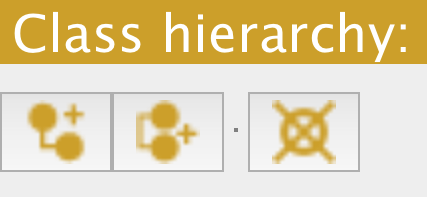
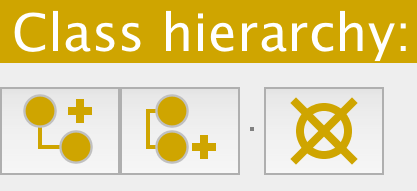
Updated the class hierarchy docs
- Added a description of the “Create SubClasses…” menu item, along with
a Figure showing the associated Wizard.
- Tidied up some description.
- Updated the screenshot of the toolbar.

diff --git a/_views/class-hierarchy.md b/_views/class-hierarchy.md
@@ -6,9 +6,9 @@ menuPath: Class views > Class hierarchy
 ---
 The class hierarchy view displays the asserted and inferred class hierarchies.  The asserted class hierarchy is visible by default.
 
-The asserted class hierarchy view is one of the primary navigation devices in {{site.protege}}.  It is presented as a tree where tree nodes correspond to classes.  A child node represents a class that is a subclass of the class represented by the parent node.
+The asserted class hierarchy view is one of the primary navigation devices in {{site.protege}}.  It is presented as a tree where nodes in the tree represent classes.  A child-parent relationship in the tree represents a sub/super class relationship in the class hierarchy.  
 
-A class will be shown under another class if it is asserted to be a SubClassOf that other class, or if it is asserted to be EquivalentTo a class expression that is an intersection containing that other class as an operand.  For example, if the ontology contains ```A SubClassOf B```, then ```A``` will appear under ```B``` in the tree.  Similarly, if the ontology contains ```E Equivalent to B and hasPart some C``` then ```E``` will also be shown as a chid of ```B``` in the tree.  Any classes that are not asserted to be a subclass of some other class will show up directly under ```owl:Thing``` (the root).
+In the asserted class hierarchy, a class will be shown as a child of another class in the tree if it is asserted to be a SubClassOf that other class, or if it is asserted to be EquivalentTo a class expression that is an intersection containing that other class as an operand.  For example, if the ontology contains ```A SubClassOf B```, then ```A``` will appear under ```B``` in the tree.  Similarly, if the ontology contains ```E EquivalentTo B and D``` (where D is any other class expression) then ```E``` will also be shown as a chid of ```B``` in the tree.  Any classes that are not asserted to be a subclass of some other class will show up directly under ```owl:Thing``` (the root).
 
 Note that names in the class hierarchy are quoted using single quotes if the name contains spaces.  The quotes, however, are not part of the name.
 
@@ -29,7 +29,11 @@ New classes can be inserted into the class hierarchy using the class creation bu
   <img src="{{site.baseurl}}/assets/views/class-hierarchy/class-hierarchy-toolbar.png" style="max-width: 120px;"/>
   <figcaption>The class hierarchy toolbar.  From left to right the buttons are: "Add SubClass", "Add sibling class", "Delete selected class"</figcaption>
 </figure>
-
+* **Add SubClasses Popup Menu Item** - Make sure that the Asserted class hierarchy is selected.  Right click (or CMD+Click on a Mac) a class in the class hierarchy.  The popup menu will be displayed.  Select the "Add SubClasses..." item from the menu.  The wizard shown below will be displayed for entering a tab indented hierarchy of class names.  The tab indented hierarchy that you enter will be converted into a sub-hierarchy that will be rooted at the selected class.
+<figure>
+  <img src="{{site.baseurl}}/assets/views/class-hierarchy/tab-indented-hierarchy.png" style="max-width: 600px;"/>
+  <figcaption>The **Add SubClasses** Wizard.  On this Wizard page a tab-indented hierarchy has been entered.  Upon completion, this hierarchy will be created as a sub-hierarchy of the selected class.</figcaption>
+</figure>
 * **Add Sibling Class Popup Menu Item** - Make sure that the Asserted class hierarchy is selected.Right click (or CMD+Click on a Mac) a class in the class hierarchy.  The popup menu will be displayed.  Select the "Add subclass..." item from the menu. A dialog will be displayed for specifying the name of the new class.  The new class will be inserted as a subclass of the class that was clicked.
 * **Add Sibling Class Popup Menu Item** -  Make sure that the Asserted class hierarchy is selected. Right click (or CMD+Click on a Mac) a class in the class hierarchy.  The popup menu will be displayed.  Select the "Add sibling class..." item from the menu. A dialog will be displayed for specifying the name of the new class.  The new class will be inserted as a sibling class of the selected class.
 * **Add SubClass Keyboard Shortcut** - Make sure that the Asserted class hierarchy is selected. Select a class and press ```Ctrl+E``` on Windows/Linux or ```Cmd+E``` on a Mac.  A dialog will be displayed for specifying the name of the new class.  The new class will be inserted as a subclass of the selected class.
